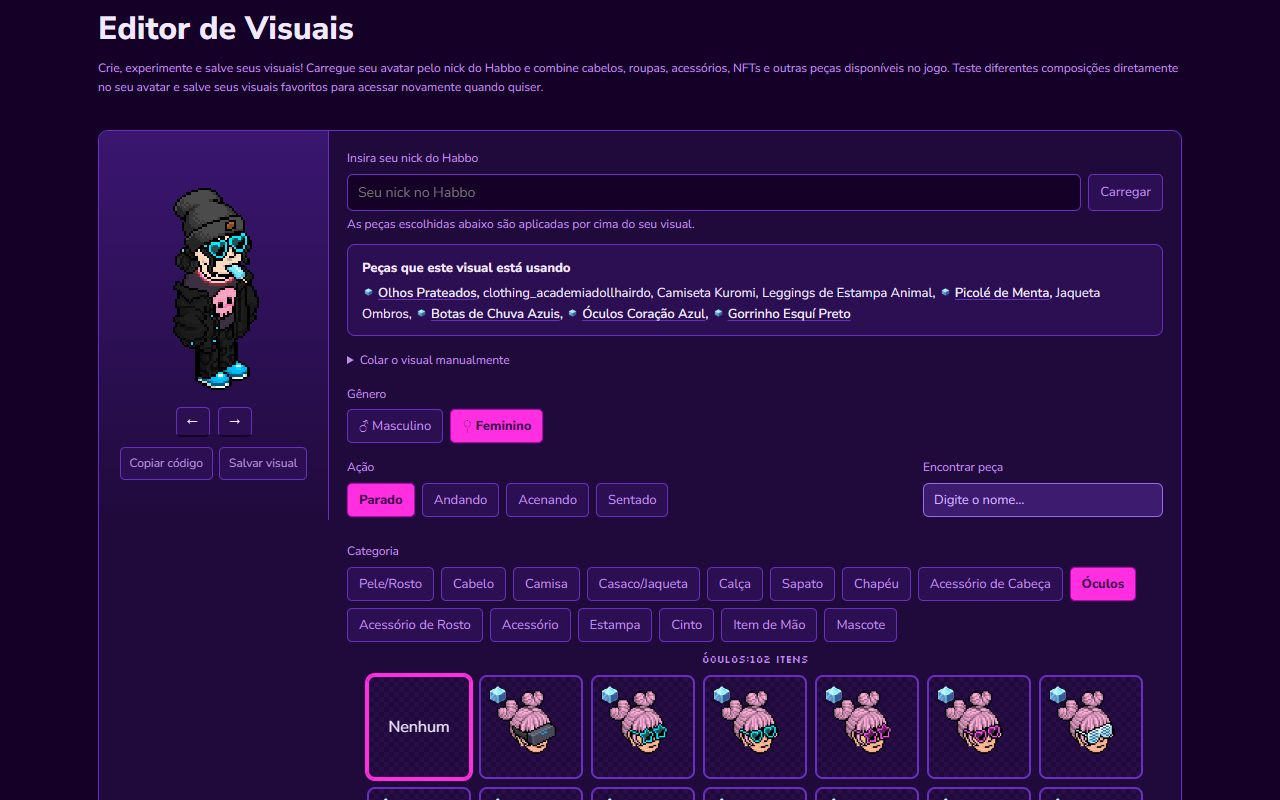
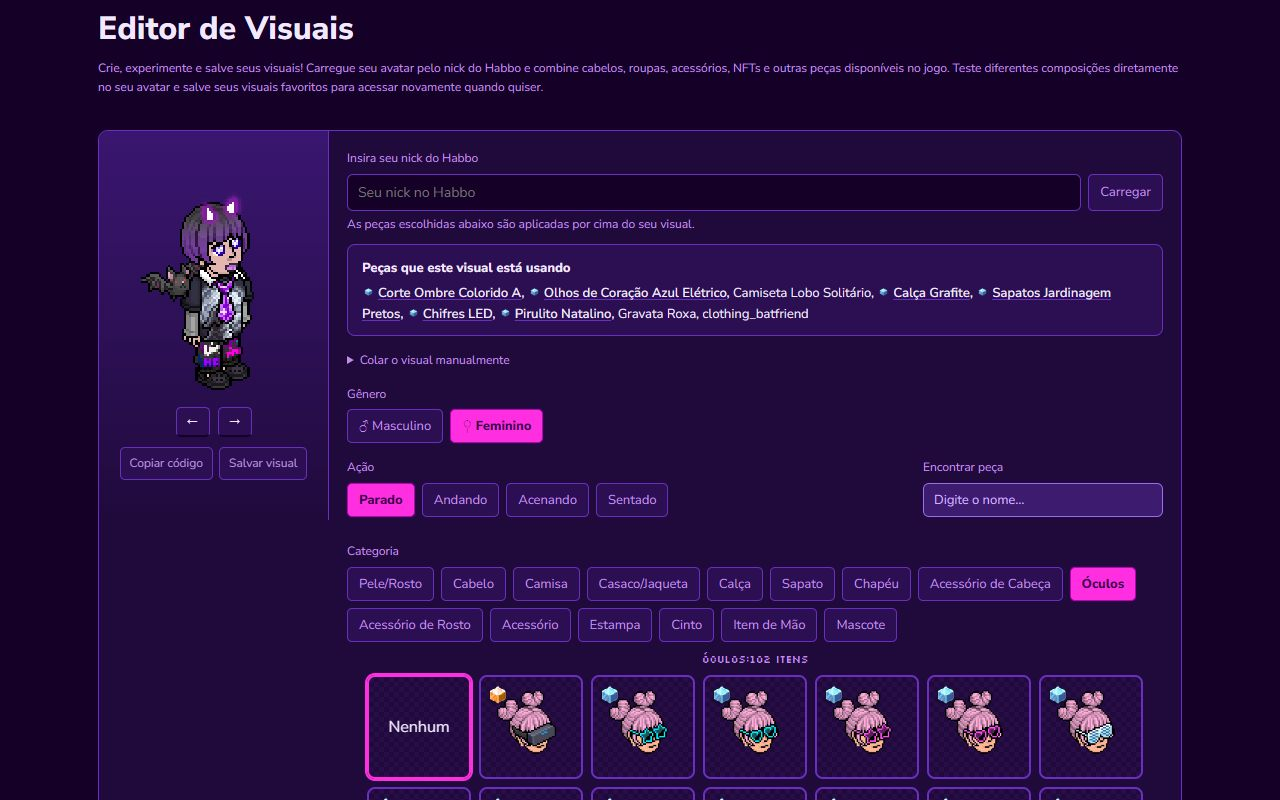
Entrada: novos textos do carrossel e print do Editor com o visual da .senna

Changed region(s): [[0.2812, 0.3438, 0.875, 0.4062], [0.0938, 0.2188, 0.2188, 0.5], [0.375, 0.8438, 0.4062, 0.875]]

diff --git a/public/index.html b/public/index.html
@@ -226,30 +226,30 @@ a{color:var(--ouro)}
 
   <section class="secao">
     <h2>Uma espiadinha lá dentro</h2>
-    <p class="intro">É assim que o catálogo funciona para quem já é da comunidade.</p>
+    <p class="intro">Veja alguns dos recursos disponíveis para a comunidade NFT-SE.</p>
     <div class="carrossel">
       <div class="slides" id="slides" tabindex="0" aria-label="Telas do catálogo">
         <figure class="slide"><img src="/entrada/catalogo-visuais.jpg" alt="Lista de visuais NFT do catálogo" loading="lazy">
-          <figcaption><b>Todos os visuais NFT</b><span>Roupas, peles, olhos e acessórios com o nome oficial do Habbo e a faixa de preço de cada um.</span></figcaption></figure>
+          <figcaption><b>Todos os visuais NFT</b><span>Roupas, peles, olhos e acessórios com os nomes oficiais em português e inglês e a faixa de preço de cada item.</span></figcaption></figure>
         <figure class="slide"><img src="/entrada/catalogo-mobis.jpg" alt="Lista de mobis NFT do catálogo" loading="lazy">
-          <figcaption><b>Mais de 1.400 mobis</b><span>Ordene pelos lançamentos, pelo preço ou pelos mais curtidos, e ache qualquer um pela busca.</span></figcaption></figure>
+          <figcaption><b>Mais de 1.400 mobis</b><span>Ordene pelos lançamentos, pelo preço ou pelos mais curtidos e encontre qualquer item pela busca.</span></figcaption></figure>
         <figure class="slide"><div class="quadro"><img src="/entrada/mobi-no-quarto.jpg" alt="Cama Disco animada dentro de um quarto" loading="lazy"><span class="mobi-anim" aria-hidden="true"></span></div>
-          <figcaption><b>Veja o mobi no quarto</b><span>Tamanho de verdade e até a animação, do jeitinho que fica no Habbo.</span></figcaption></figure>
+          <figcaption><b>Veja o mobi no quarto</b><span>Veja como ele fica no ambiente, tenha uma noção do tamanho e confira a animação quando tiver.</span></figcaption></figure>
         <figure class="slide"><div class="quadro"><img src="/entrada/provador.jpg" alt="Provador com avatares vestindo os Chifres LED" loading="lazy">
           <div class="camada" aria-hidden="true">
             <img class="anim-avatar" src="/entrada/provador-acenando.png" alt="" loading="lazy" style="left:117px;top:51px">
             <img class="anim-avatar" src="/entrada/provador-andando.png" alt="" loading="lazy" style="left:295px;top:51px">
           </div></div>
-          <figcaption><b>Provador</b><span>Experimente qualquer roupa no avatar, troque o tom de pele e as cores, ou use o seu próprio visual pelo nick.</span></figcaption></figure>
+          <figcaption><b>Provador</b><span>Experimente qualquer visual no avatar, altere tons de pele e cores ou carregue seu próprio avatar pelo nick do Habbo.</span></figcaption></figure>
         <figure class="slide"><img src="/entrada/editor-de-visuais.jpg" alt="Editor de visuais" loading="lazy">
-          <figcaption><b>Editor de Visuais</b><span>Monte combinações com peças NFT e do jogo, salve seus favoritos e veja o que a comunidade criou.</span></figcaption></figure>
+          <figcaption><b>Editor de Visuais</b><span>Monte combinações com peças NFT e itens do jogo, salve seus visuais e descubra combinações criadas pela comunidade.</span></figcaption></figure>
         <figure class="slide"><div class="quadro"><img src="/entrada/teste-o-balao.jpg" alt="Teste do balão de fala Origami Azul no quarto" loading="lazy">
           <div class="camada" aria-hidden="true">
             <img class="balao b1" src="/entrada/balao-1.png" alt="" loading="lazy" style="left:276px;top:524px">
             <img class="balao b2" src="/entrada/balao-2.png" alt="" loading="lazy" style="left:272px;top:557px">
             <img class="balao b3" src="/entrada/balao-3.png" alt="" loading="lazy" style="left:279px;top:590px">
           </div></div>
-          <figcaption><b>Teste o balão</b><span>Escreva uma mensagem e veja como o balão de fala aparece no quarto antes de comprar.</span></figcaption></figure>
+          <figcaption><b>Teste o balão</b><span>Escreva uma mensagem e veja como o balão de fala fica com o seu próprio avatar antes de comprar.</span></figcaption></figure>
       </div>
       <button class="seta esq" type="button" data-seta="-1" aria-label="Tela anterior">‹</button>
       <button class="seta dir" type="button" data-seta="1" aria-label="Próxima tela">›</button>
